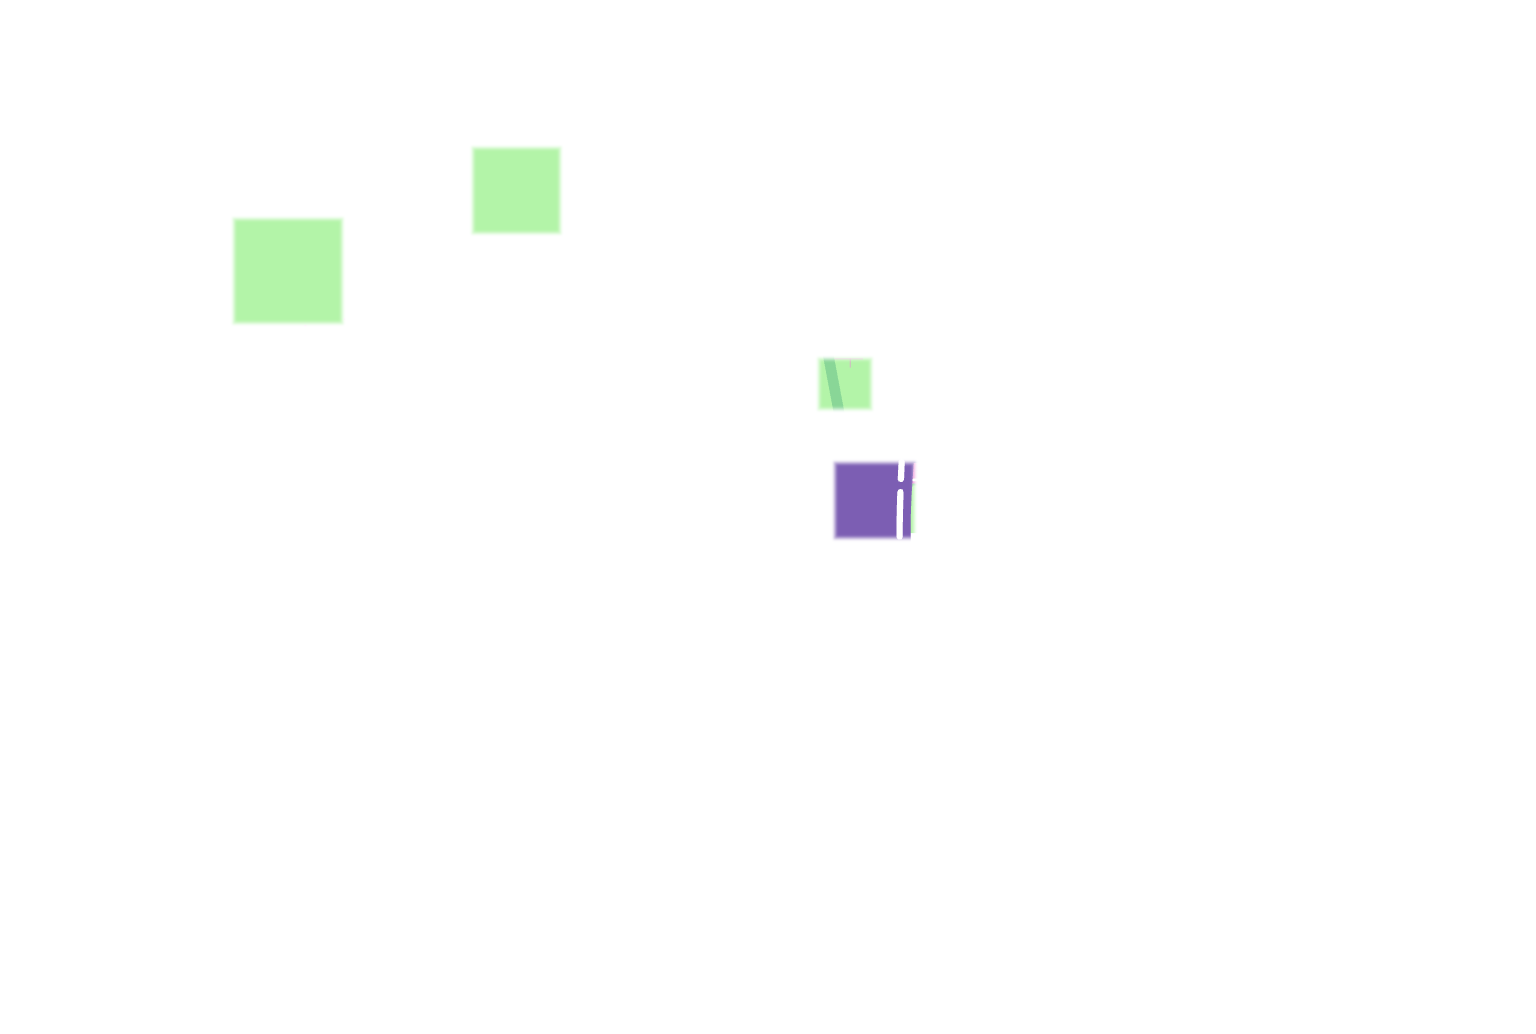
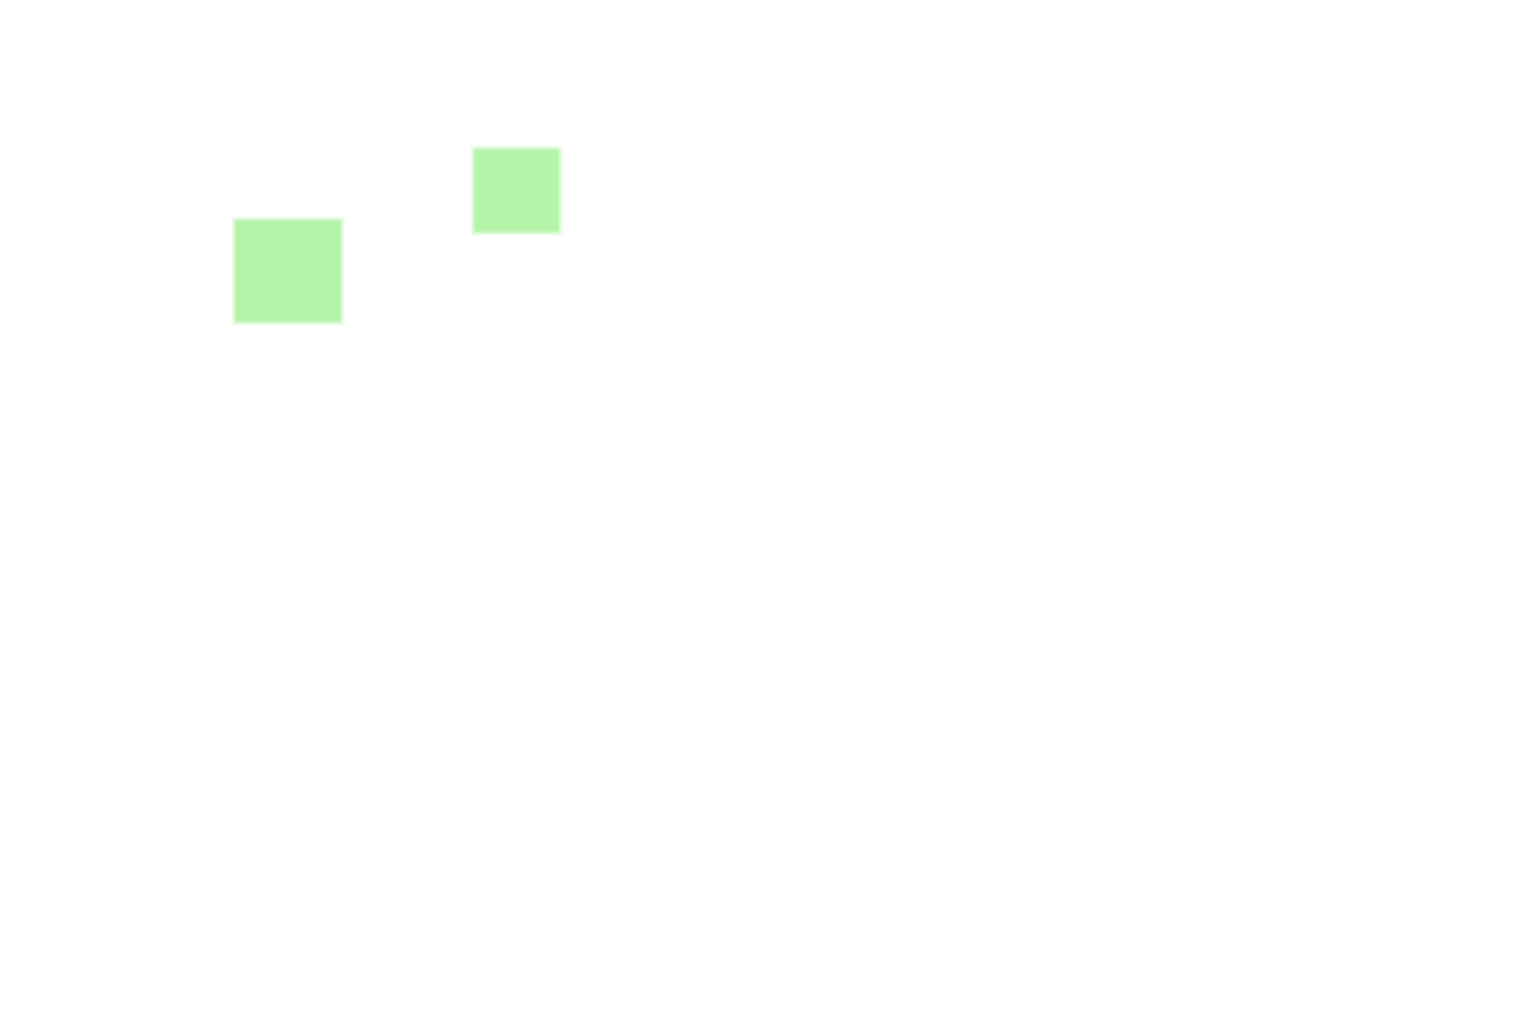
登录插画恢复动态动画，去掉点赞时画在杯子上的爱心

Changed region(s): [[0.5312, 0.4333, 0.5938, 0.5261], [0.5312, 0.3404, 0.5938, 0.4023]]

diff --git a/app/static/auth-scene.js b/app/static/auth-scene.js
@@ -1,7 +1,7 @@
 /* FOCUS! 登录页左侧：Crispe《Begging for Likes on Instagram》的 Rive 场景
    原作：Crispe / Chris Phillips，CC BY 4.0
    - 静态图先出现，空闲后加载 Rive 运行时；失败时保持静态图
-   - 爱心跟随鼠标，点击后沿弧线飞进杯子，到达时触发人物反应
+   - 爱心跟随鼠标，点击后沿弧线飞进杯子，到达时画面轻顿一下
    - 登录后暂停，避免后台继续渲染 */
 (() => {
   const scene = document.getElementById("authScene");
@@ -24,7 +24,7 @@
   const FLIGHT_MS = 620; // 爱心飞行时长
   const MAX_FLIGHTS = 3; // 同时飞行的爱心上限
   const CUP = { x: 0.572, y: 0.462 }; // 杯口中心（场景百分比，已按画面校准）
-  const STATIC_ONLY = true; // 原动画里杯子上的爱心是固定图层、不跟随杯子，这里只保留静态插画
+  const STATIC_ONLY = false; // 保留 Rive 动画
 
   let instance = null;
   let inputs = [];
@@ -49,7 +49,7 @@
     if (hint) hint.textContent = text;
   }
 
-  // 爱心落到杯口时，画面轻轻一顿作为反馈
+  // 爱心落到杯口时画面轻顿一下
   let bumpTimer = 0;
   function bump() {
     if (reduceMotion) return;
@@ -235,7 +235,6 @@
       if (t >= 1) {
         flight.done = true;
         flight.el.classList.remove("is-visible");
-        fire("Heart Pressed Main");
         bump();
         landed += 1;
       }
